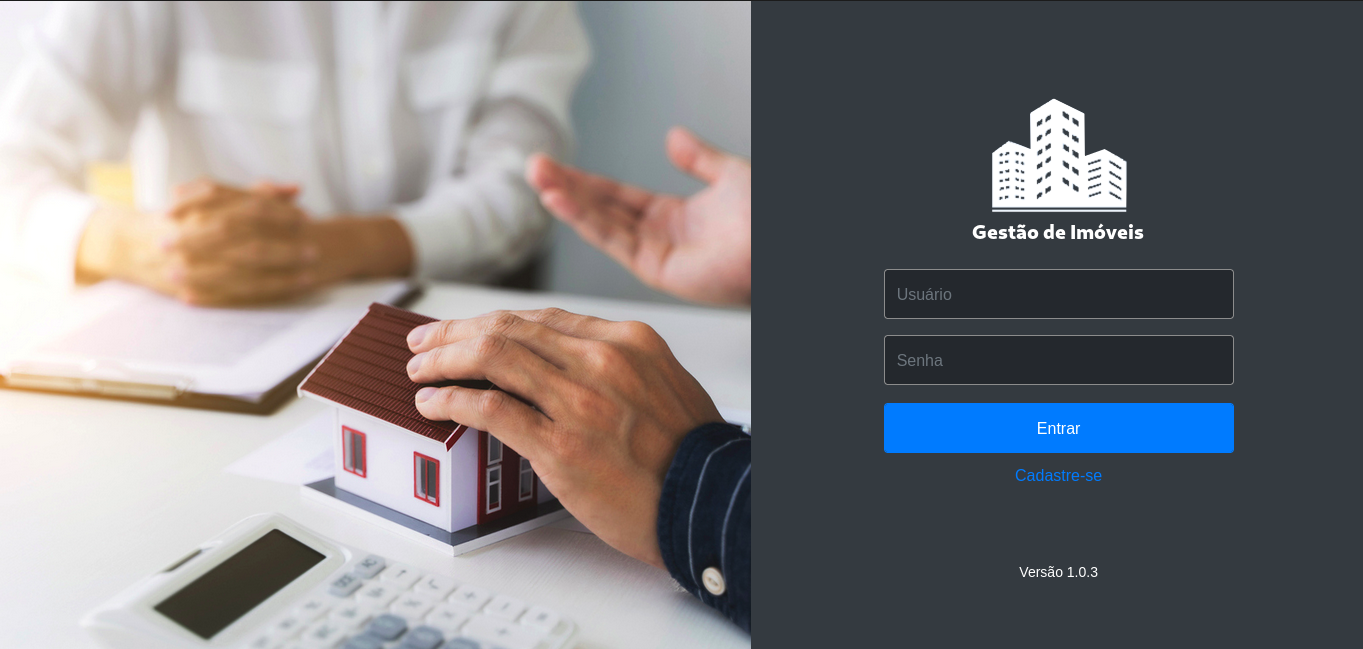
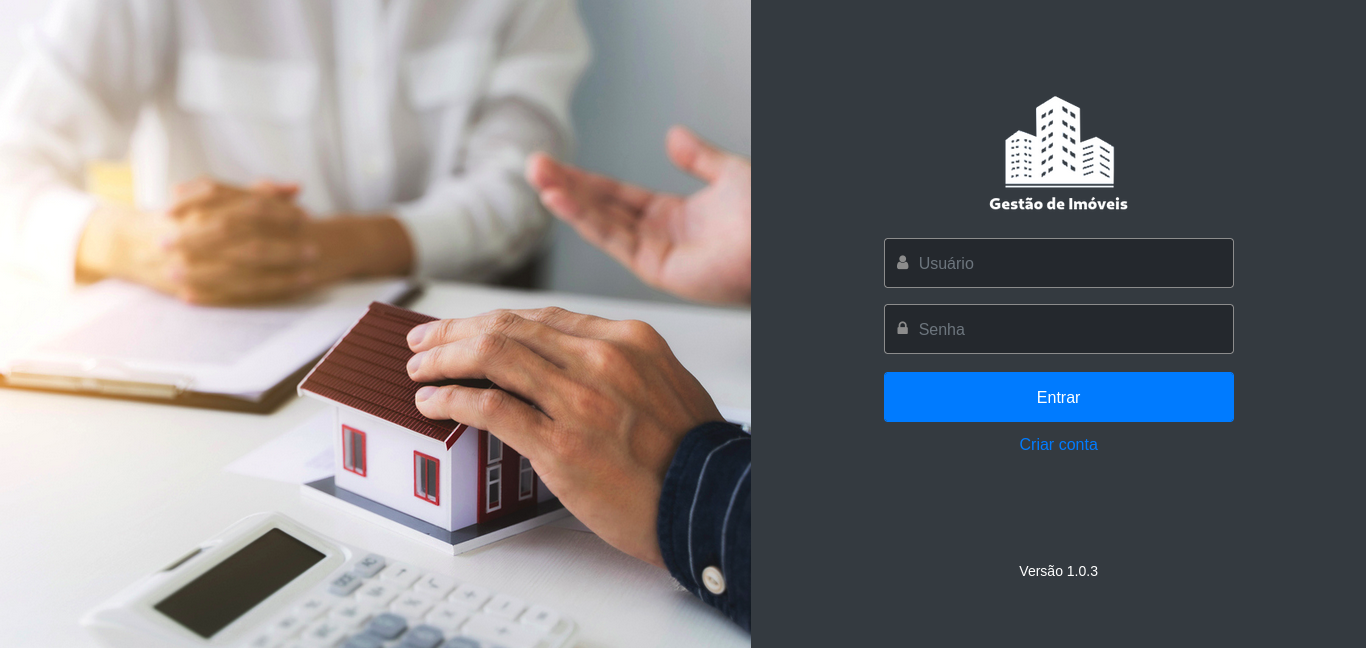
Atualização de arquivos

diff --git a/src/main/resources/static/css/style.css b/src/main/resources/static/css/style.css
@@ -17,57 +17,61 @@ body {
 	padding:10px;
 }
 
-.card{
+.card {
 	padding:1px;
 	margin:15px;
 }
 
-.card-img-top{
+.card-img-top {
 	height:auto;
 	overflow: hidden;
 }
 
-.inline{
+.inline {
 	display:inline
 }
 
-.is-invalid{
+.is-invalid {
 	color:red;
 }
-.is-invalid input,.is-invalid select{
+
+.is-invalid input,.is-invalid select {
 	border-color:red;
 }
 
-.voltar{
+.voltar {
 	display:inline;
 	float:right;
 }
 
-.btn-primary {
-  min-width: 75px !important;
-  margin-top: 2px !important;
-  margin-bottom: 2px !important;
+.btn-primary, .btn-primary:focus {
+    min-width: 75px !important;
+    margin-top: 2px !important;
+    margin-bottom: 2px !important;
+    color: #fff;
+    background-color: #007bff;
+    border-color: #007bff;
 }
 
 .btn-success {
-  min-width: 75px !important;
-  margin-top: 2px !important;
-  margin-bottom: 2px !important;
+    min-width: 75px !important;
+    margin-top: 2px !important;
+    margin-bottom: 2px !important;
 }
 
 .btn-danger {
-  min-width: 75px !important;
-  margin-top: 2px !important;
-  margin-bottom: 2px !important;
+    min-width: 75px !important;
+    margin-top: 2px !important;
+    margin-bottom: 2px !important;
 }
 
 .btn-a{
-  background: none !important;
-  border: none;
-  padding: 0 !important;
-  color: white;
-  text-decoration: none;
-  cursor: pointer;
+    background: none !important;
+    border: none;
+    padding: 0 !important;
+    color: white;
+    text-decoration: none;
+    cursor: pointer;
 }
 
 .navbar {
@@ -130,8 +134,24 @@ body {
     padding: 8px 0px !important;
 }
 
+.form-item input-login {
+    padding-left: 20px;
+}
+
+.form-item span {
+    position: absolute;
+    z-index: 2;
+    display: block;
+    width: 2.375rem;
+    height: 2.375rem;
+    line-height: 3rem;
+    text-align: center;
+    pointer-events: none;
+    color: #8c8c8c;
+}
+
 .input-login, .input-login:focus {
-    padding: 12px !important;
+    padding: 12px 34px !important;
     background-color: #24282d !important;
     color: #8c8c8c;
     border-color: #8c8c8c;
@@ -186,8 +206,14 @@ body {
 }
 
 @media (max-width: 768px) {
-    .col-login-left {
+    .col-login-image, .col-login-image2 {
         display: none;
+        width: 0;
+    }
+
+    .col-login-form {
+        display: block;
+        width: 100%;
     }
 
     #sidebar-wrapper {

diff --git a/src/main/resources/templates/security/signup.html b/src/main/resources/templates/security/signup.html
@@ -15,19 +15,23 @@
             <form th:action="@{/signup}" method="post" th:object="${user}">
                 <div th:replace="fragments/mensagemErro"></div>
                 <div class="form-item" th:classappend="${#fields.hasErrors('name')}? is-invalid">
+                    <span><i class="fa fa-user-circle"></i></span>
                     <input class="form-control input-login" placeholder="Nome Completo" type="text" th:field="*{name}"/>
                 </div>
-                <div class="form-item" th:classappend="${#fields.hasErrors('username')}? is-invalid">
-                    <input class="form-control input-login" placeholder="Usuário" type="text" th:field="*{username}"/>
-                </div>
                 <div class="form-item" th:classappend="${#fields.hasErrors('email')} or ${erroEmail}? is-invalid">
+                    <span><i class="fa fa-envelope"></i></span>
                     <input class="form-control input-login" placeholder="E-mail" type="email" th:field="*{email}"/>
                 </div>
+                <div class="form-item" th:classappend="${#fields.hasErrors('username')}? is-invalid">
+                    <span><i class="fa fa-user"></i></span>
+                    <input class="form-control input-login" placeholder="Usuário" type="text" th:field="*{username}"/>
+                </div>
                 <div class="form-item" th:classappend="${#fields.hasErrors('password')}? is-invalid">
+                    <span><i class="fa fa-lock"></i></span>
                     <input class="form-control input-login" placeholder="Senha" type="password" th:field="*{password}"/>
                 </div>
                 <div class="form-item" style="padding:10px 0">
-                    <input class="btn btn-primary button-login" type="submit" value="Criar Conta"/>
+                    <input class="btn btn-primary form-control button-login" type="submit" value="Cadastrar"/>
                 </div>
             </form>
             <a th:href="@{/login}">Já tenho conta</a>

diff --git a/src/main/resources/templates/security/login.html b/src/main/resources/templates/security/login.html
@@ -9,7 +9,7 @@
     <div class="col-login-form">
         <div class="container-login">
             <div class="logo-login text-center">
-                <img src="images/logo.png">
+                <img src="images/logo.png" height="125px">
             </div>
 
             <div class="alert alert-danger" th:if="${param.error}">
@@ -21,15 +21,17 @@
 
             <form th:action="@{/login}" method="post">
                 <div class="form-item">
+                    <span><i class="fa fa-user"></i></span>
                     <input class="form-control input-login" placeholder="Usuário" type="text" name="username"/>
                 </div>
                 <div class="form-item">
+                    <span><i class="fa fa-lock"></i></span>
                     <input class="form-control input-login" placeholder="Senha" type="password" name="password"/>
                 </div>
                 <div class="form-item">
                     <input class="btn btn-primary form-control button-login" type="submit" value="Entrar"/>
                 </div>
-                <div class="text-center"><a th:href="@{/signup}">Cadastre-se</a></div>
+                <div class="text-center"><a th:href="@{/signup}">Criar conta</a></div>
             </form>
         </div>
         <div class="text-version">Versão 1.0.3</div>

diff --git a/src/main/resources/templates/fragments/layoutLogin.html b/src/main/resources/templates/fragments/layoutLogin.html
@@ -5,6 +5,7 @@
     <meta charset="UTF-8"/>
     <meta name="viewport" content="width=device-width, initial-scale=1.0, shrink-to-fit=no"/>
     <link rel="stylesheet" href="https://maxcdn.bootstrapcdn.com/bootstrap/4.0.0/css/bootstrap.min.css">
+    <link href="https://maxcdn.bootstrapcdn.com/font-awesome/4.7.0/css/font-awesome.min.css" rel="stylesheet"/>
 
     <script src="https://code.jquery.com/jquery-3.6.0.js"></script>
     <script src="https://cdnjs.cloudflare.com/ajax/libs/popper.js/1.12.9/umd/popper.min.js"></script>
